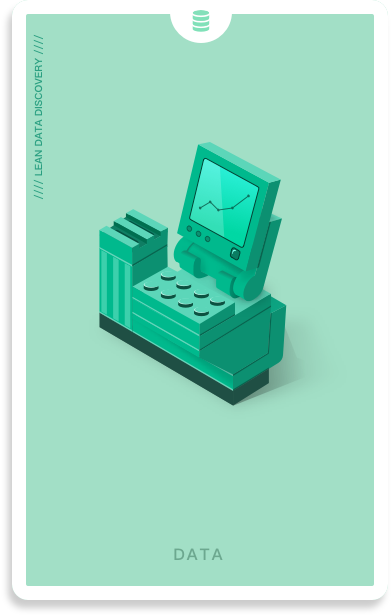
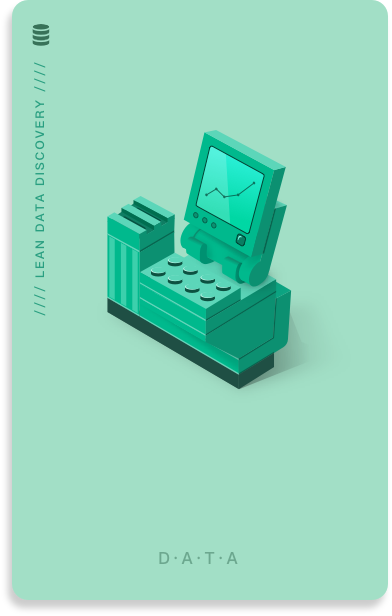
draw rate in stars for data card

Changed region(s): [[0.0306, 0.0, 1.0, 0.987], [0.2449, 0.1851, 0.7653, 0.6786]]

diff --git a/src/components/Stage/Sprite/CardSprite.tsx b/src/components/Stage/Sprite/CardSprite.tsx
@@ -101,7 +101,7 @@ export default class CardSprite extends Sprite<CardProps>{
 
   drawText(){
     const context = this.stage!.context!
-    const { width, height, card, content, owner, weight } = this.props
+    const { width, height, card, content, owner, weight, rate } = this.props
     const cardType = card?.type || CardColors[CardType.VISION]
     const cardColor = CardColors[cardType] ? CardColors[cardType] : CardColors[cardType]
     const padding = 48
@@ -121,6 +121,7 @@ export default class CardSprite extends Sprite<CardProps>{
       context.font = `bold ${ownerFontSize}px Montserrat, sans-serif`
       const ownerRows = calculateTextRows(context, maxWidth, owner, ownerFontSize)
       this.drawContent(width, height, ownerFontSize, 100, ownerRows)
+      this.drawStarGroup(rate)
     } else if(isValueCard(cardType) && weight) {
       this.drawContent(width, height, fontSize, 140, contentRows, -10)
 
@@ -132,6 +133,46 @@ export default class CardSprite extends Sprite<CardProps>{
     }
 
     context.restore()
+  }
+
+  drawStarGroup(rate) {
+    const xAxisList = [330, 360, 390, 420, 450]
+    for (let index in xAxisList) {
+      let color = index < rate ? '#ffffff' : '#a2dfc6'
+      this.drawStar(xAxisList[index], 60, color)
+    }
+  }
+
+  drawStar(cx, cy, color){
+    const context = this.stage!.context!
+    const spikes = 5
+    const outerRadius = 8
+    const innerRadius = 4
+    var rot=Math.PI/2*3
+    var x=cx
+    var y=cy
+    var step=Math.PI/spikes
+
+    context.beginPath()
+    context.moveTo(cx,cy-outerRadius)
+    for(let i=0;i<spikes;i++){
+      x=cx+Math.cos(rot)*outerRadius
+      y=cy+Math.sin(rot)*outerRadius
+      context.lineTo(x,y)
+      rot+=step
+
+      x=cx+Math.cos(rot)*innerRadius
+      y=cy+Math.sin(rot)*innerRadius
+      context.lineTo(x,y)
+      rot+=step
+    }
+    context.lineTo(cx,cy-outerRadius)
+    context.closePath()
+    context.lineWidth=5
+    context.strokeStyle=color
+    context.stroke()
+    context.fillStyle=color
+    context.fill()
   }
 
   draw(){
